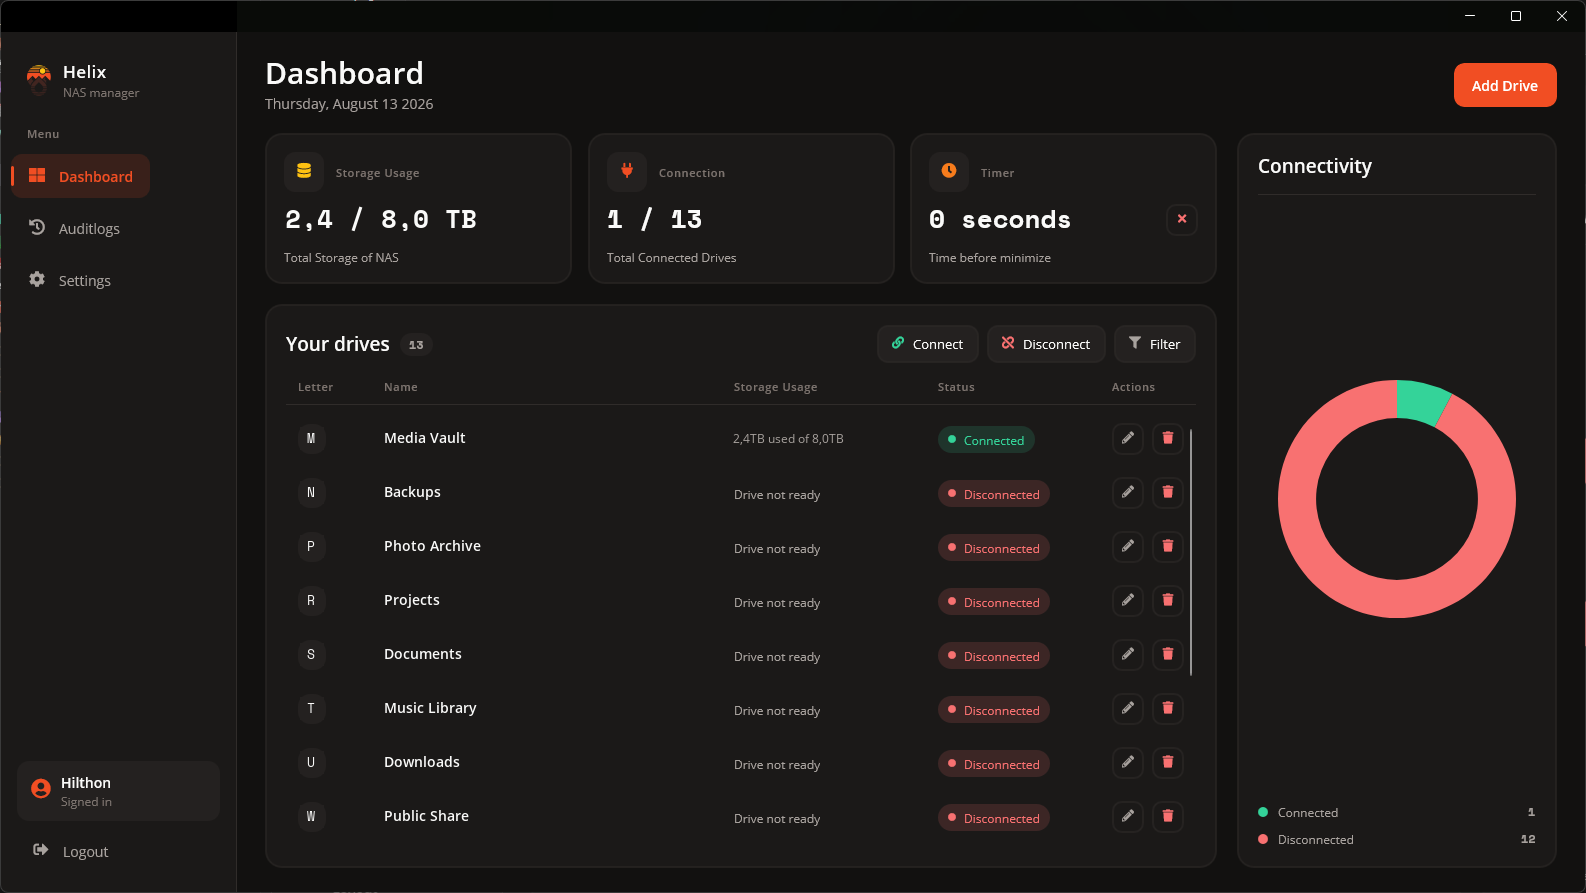
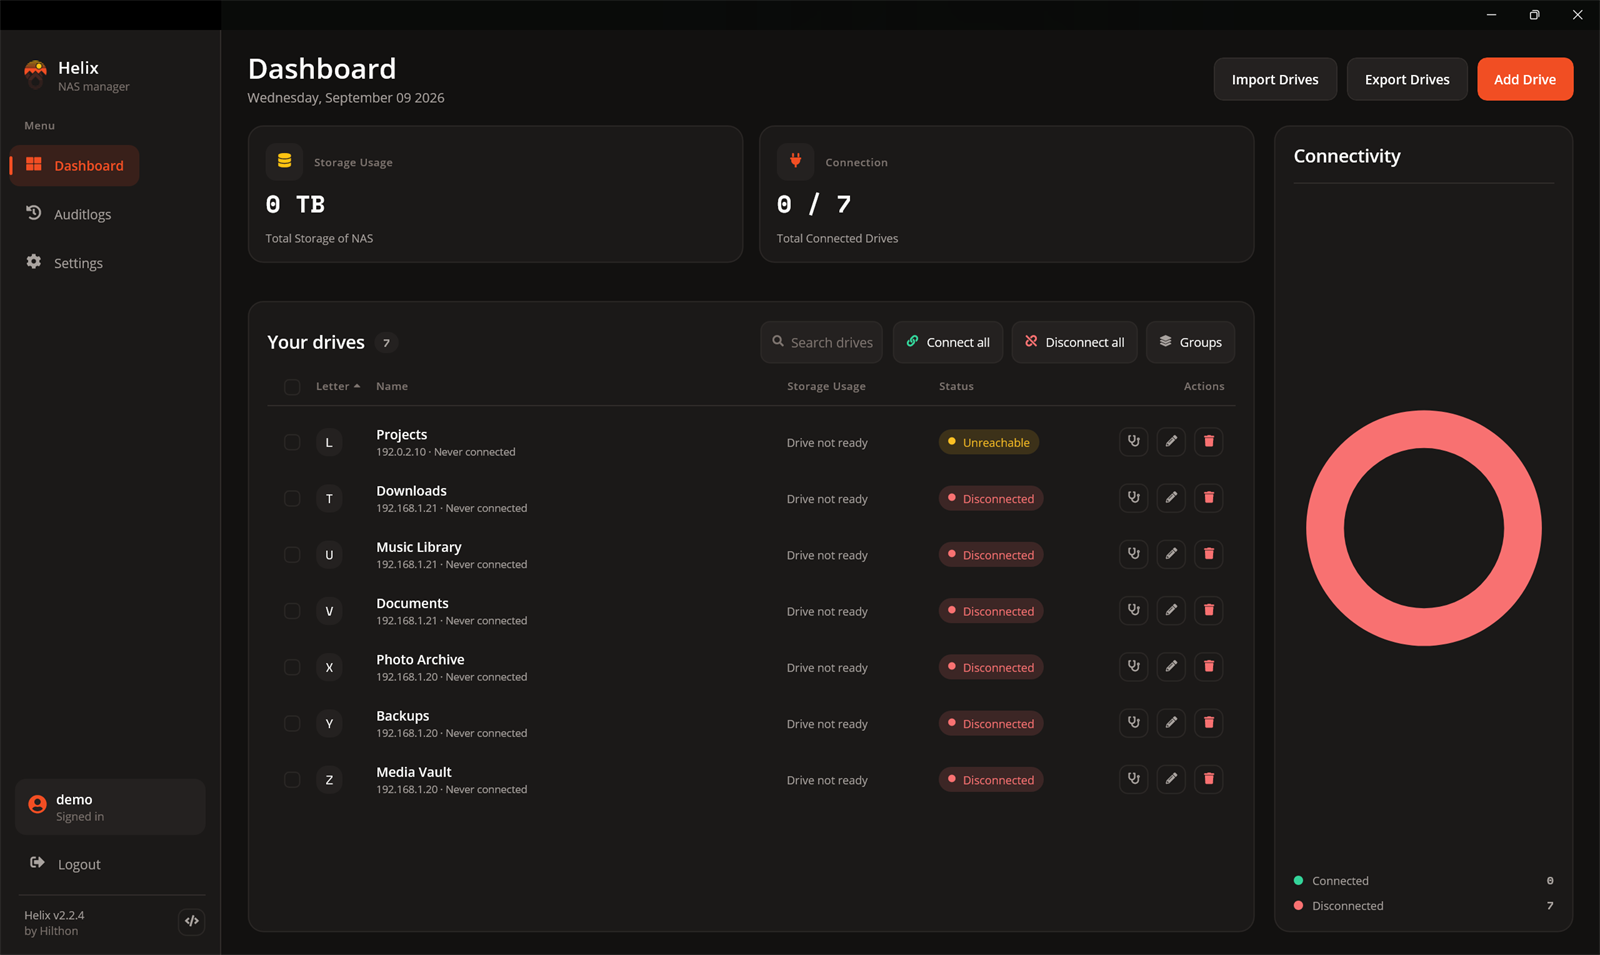
Updated screenshots

diff --git a/README.md b/README.md
@@ -29,7 +29,7 @@ and keep your credentials encrypted at rest.
 <br />
 
 <div align="center">
-  <img src="docs/screenshots/dashboard.png" alt="The Helix dashboard, showing storage usage, connection counts and the drive list" width="900" />
+  <img src="docs/screenshots/dashboard.png" alt="The Helix dashboard: storage and connection tiles, the drive list with one drive marked unreachable, and the connectivity donut" width="900" />
 </div>
 
 <br />
@@ -62,13 +62,27 @@ that have to talk to the operating system differ.
 
 ## Screenshots
 
-| Sign in | Audit log |
-| --- | --- |
-| <img src="docs/screenshots/sign-in.png" alt="Helix sign-in screen" /> | <img src="docs/screenshots/audit-logs.png" alt="Audit log page listing recorded actions" /> |
+Every screenshot below is a throwaway demo account with invented drives. The addresses are
+private-range or [RFC 5737](https://www.rfc-editor.org/rfc/rfc5737) documentation addresses
+that reach nothing, which is why the drives read as disconnected and the storage figures
+are zero.
 
-| Settings | Add a drive |
+**Why a drive will not connect.** The stethoscope on a drive row walks the chain a mount
+actually takes — the server's name, reaching it, the share and credentials, then the drive
+letter — and reports each step. A step that could not run is reported as skipped rather
+than guessed at.
+
+<div align="center">
+  <img src="docs/screenshots/diagnose.png" alt="The connection check sheet: server name warning, the server not answering on port 445 or 139, the share step skipped because the server did not answer, and the drive letter free" width="900" />
+</div>
+
+| Sign in | Add a drive |
 | --- | --- |
-| <img src="docs/screenshots/settings.png" alt="Settings page with account and preference sections" /> | <img src="docs/screenshots/add-drive.png" alt="Add drive dialog" /> |
+| <img src="docs/screenshots/sign-in.png" alt="Helix sign-in screen" /> | <img src="docs/screenshots/add-drive.png" alt="The add drive dialog, with drive letter, name, NAS address, username and password" /> |
+
+| Audit log | Settings |
+| --- | --- |
+| <img src="docs/screenshots/audit-logs.png" alt="Audit log page listing recorded actions, newest first, with a search box" /> | <img src="docs/screenshots/settings.png" alt="The preferences page: switches for auto-connect, tray behaviour and startup, and numeric fields for the timer, retention, low-space warning and idle lock" /> |
 
 ## Features
 
